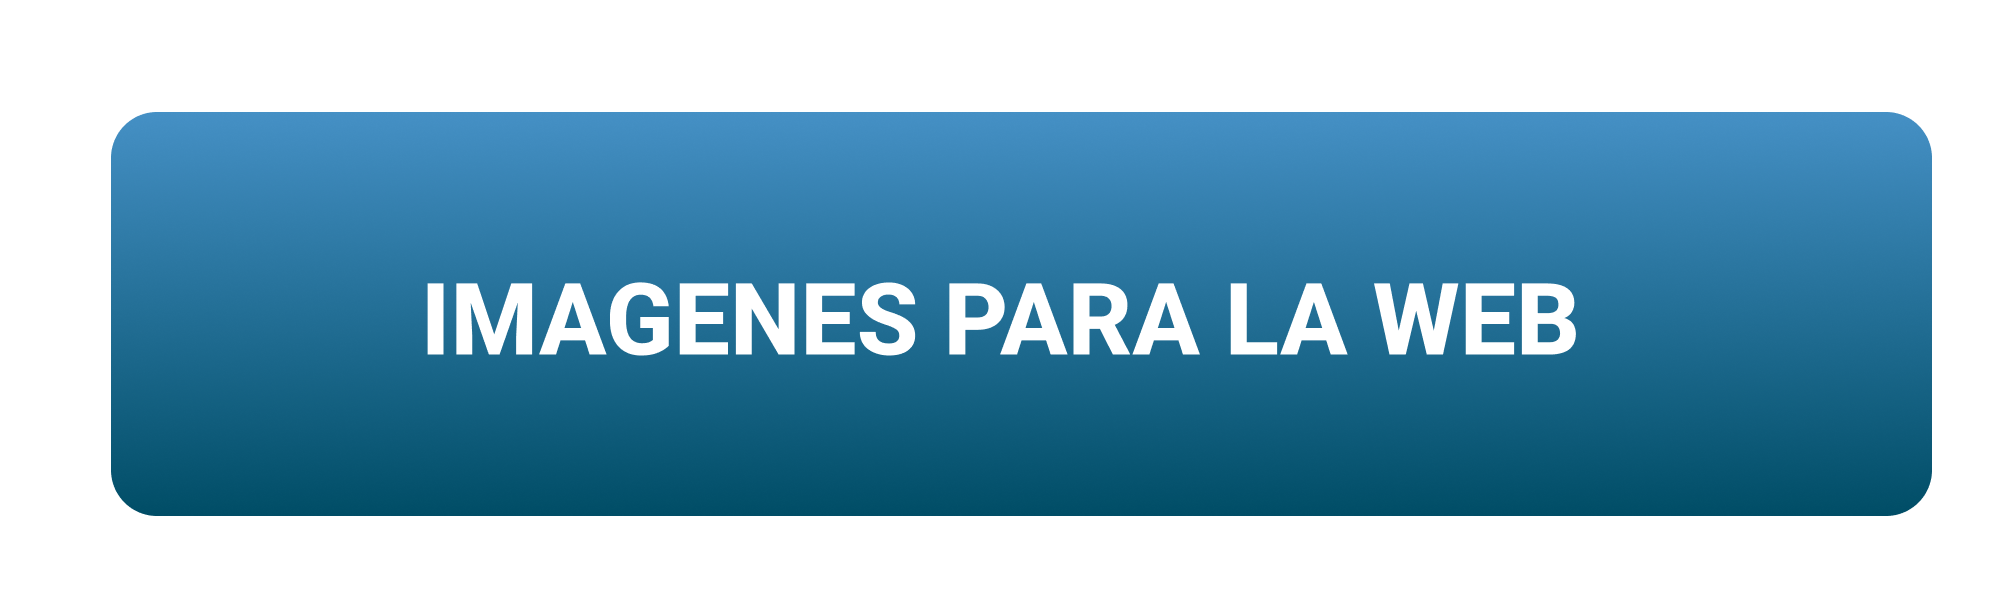
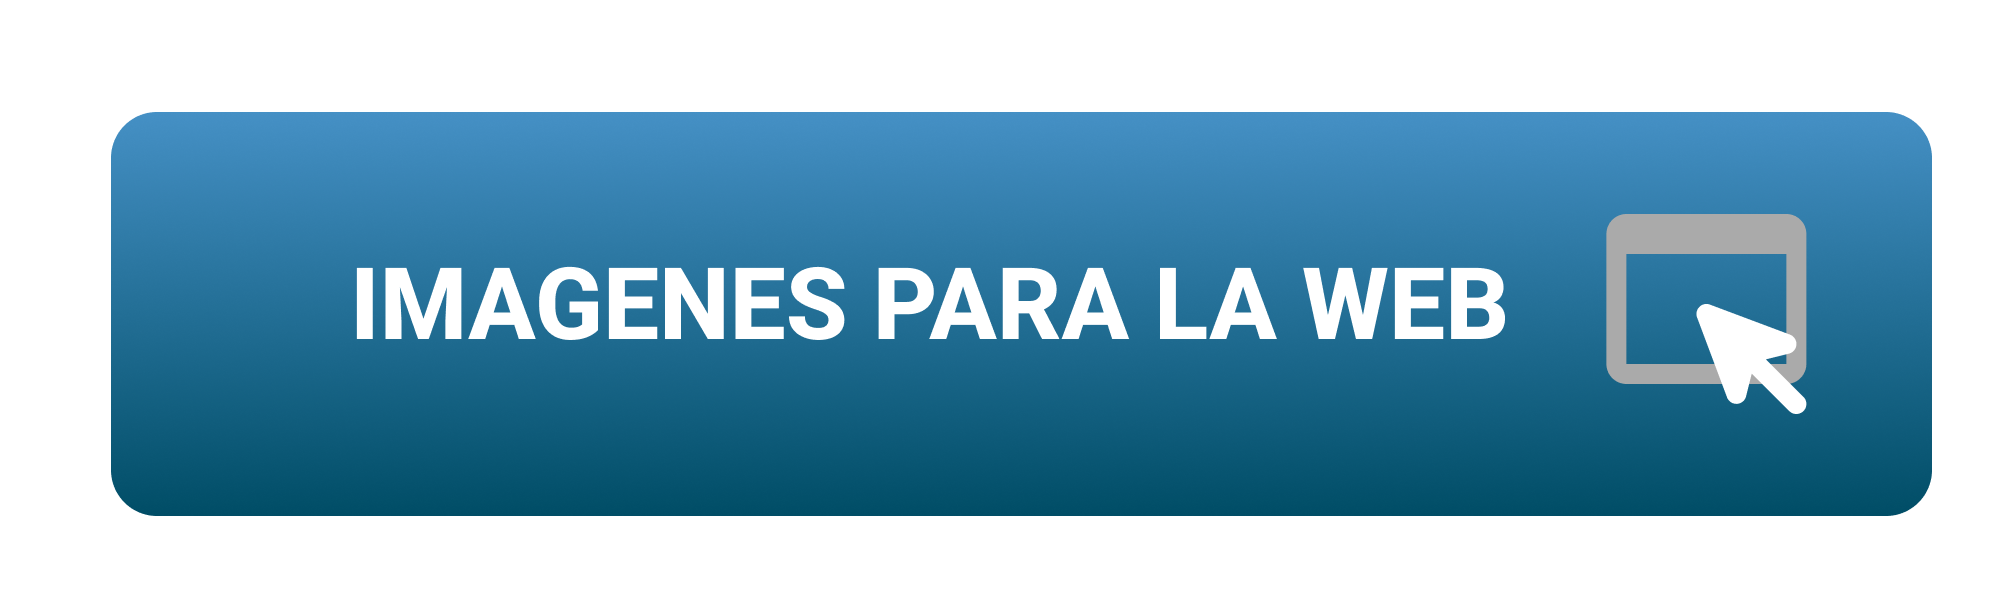
deploy

Changed region(s): [[0.1549, 0.3295, 0.9295, 0.6889]]

diff --git a/src/view/interfaces/config_frame.py b/src/view/interfaces/config_frame.py
@@ -20,13 +20,22 @@ class ConfigFrame():
         pass
 
     def output_frame_ui(self):
+        self.banner = customtkinter.CTkLabel(
+            self.config_frame, text="", image=self.master.banner_image_config)
+
+        self.banner.grid(
+            row=0, column=0,
+            padx=20, pady=10,
+            sticky="ew"
+        )
+
         self.output_frame = customtkinter.CTkFrame(
             self.config_frame,
             corner_radius=0,
             fg_color=("gray90", "gray10")
         )
         self.output_frame.grid(
-            row=0, column=0,
+            row=1, column=0,
             padx=20, pady=10,
             sticky="ew"
         )
@@ -74,7 +83,7 @@ class ConfigFrame():
             fg_color=("gray90", "gray10")
         )
         self.quality_config_frame.grid(
-            row=1, column=0,
+            row=2, column=0,
             padx=20, pady=10,
             sticky="ew"
         )
@@ -109,7 +118,7 @@ class ConfigFrame():
             fg_color=("gray90", "gray10")
         )
         self.weight_config_frame.grid(
-            row=2, column=0,
+            row=3, column=0,
             padx=20, pady=10,
             sticky="ew"
         )
@@ -164,7 +173,7 @@ class ConfigFrame():
         )
 
         self.save_config_frame.grid(
-            row=3, column=0,
+            row=4, column=0,
             padx=20, pady=10,
             sticky="ew"
         )

diff --git a/src/view/setup_images.py b/src/view/setup_images.py
@@ -26,6 +26,11 @@ class SetUpImages:
             size=(500, 150)
         )
 
+        self.master.banner_image_config = customtkinter.CTkImage(
+            self.path.open_image("banner_image_config.png"),
+            size=(500, 150)
+        )
+
         self.master.web_icon = customtkinter.CTkImage(
             light_image=self.path.open_image("web_dark.png"),
             dark_image=self.path.open_image("web_light.png"),

diff --git a/src/view/navigation.py b/src/view/navigation.py
@@ -41,7 +41,7 @@ class Navigation:
             hover_color=("gray70", "gray30"),
             image=self.master.web_icon,
             anchor="w",
-            command=self.web_button_event
+            command=self.web_button_event,
         )
         self.web_button.grid(row=1, column=0, sticky="ew")
         self.config_button = customtkinter.CTkButton(

diff --git a/src/view/main.py b/src/view/main.py
@@ -21,6 +21,7 @@ class App(customtkinter.CTk):
             "kopiri_logo.ico"
         ))
         self.resizable(False, False)
+
         self.grid_rowconfigure(0, weight=1)
         self.grid_columnconfigure(1, weight=1)
 

diff --git a/README.md b/README.md
@@ -1,0 +1,37 @@
+# Kopiri: Compresor de Imágenes
+
+![Logo de Kopiri](ruta/a/tu/logo.png) <!-- Reemplaza con la ruta a tu logo si tienes uno -->
+
+Kopiri es un compresor de imágenes gratuito y de código abierto diseñado para Windows. Permite comprimir múltiples imágenes simultáneamente sin comprometer la calidad, y está optimizado para exportar en formato .webp, ideal para la web.
+
+## Características Principales
+
+- **Compresión en Lote**: Comprime múltiples imágenes al mismo tiempo.
+- **Exportación en .webp**: Optimizado para la web.
+- **Sin Conexión**: Funciona completamente offline.
+- **Gratuito y de Código Abierto**: Accede y modifica el código según tus necesidades.
+
+## Instalación
+
+1. Descarga el instalador desde [nuestro sitio web](https://kopiri-web.vercel.app/).
+2. Ejecuta el instalador y sigue las instrucciones en pantalla.
+3. ¡Listo! Ahora puedes comenzar a usar Kopiri.
+
+## Uso
+
+1. Abre Kopiri desde tu escritorio o menú de inicio.
+2. Selecciona las imágenes que deseas comprimir.
+3. Ajusta las configuraciones según tus preferencias.
+4. Haz clic en "Comprimir" y espera a que Kopiri haga su magia.
+
+<!-- ## Contribuciones
+
+Si deseas contribuir al proyecto, ¡eres bienvenido! Por favor, lee nuestra [guía de contribución](ruta/a/tu/guia/de/contribucion) para obtener información sobre cómo hacerlo. -->
+
+## Licencia
+
+Kopiri está bajo una licencia personalizada que prohíbe su venta. Puedes leer más detalles en el archivo [LICENSE](LICENSE).
+
+## Contacto
+
+Si tienes preguntas, comentarios o sugerencias, no dudes en contactarnos a través de [nuestro sitio web](https://kopiri-web.vercel.app) o envíanos un correo a softwaretoni21@gmail.com.
